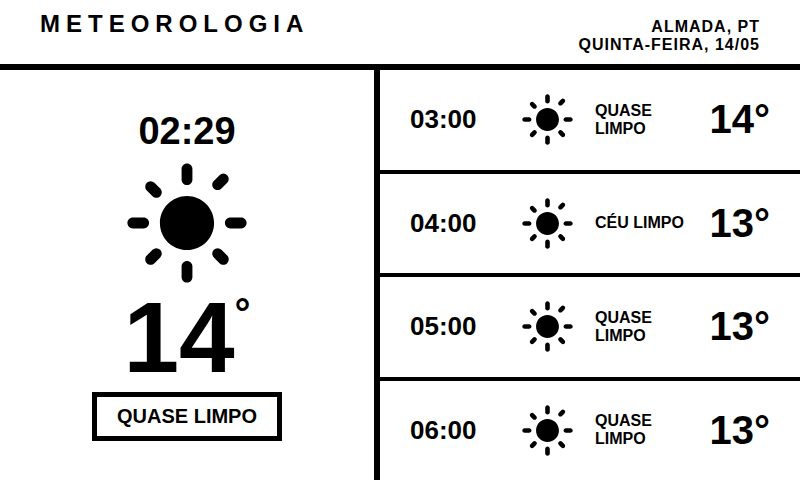
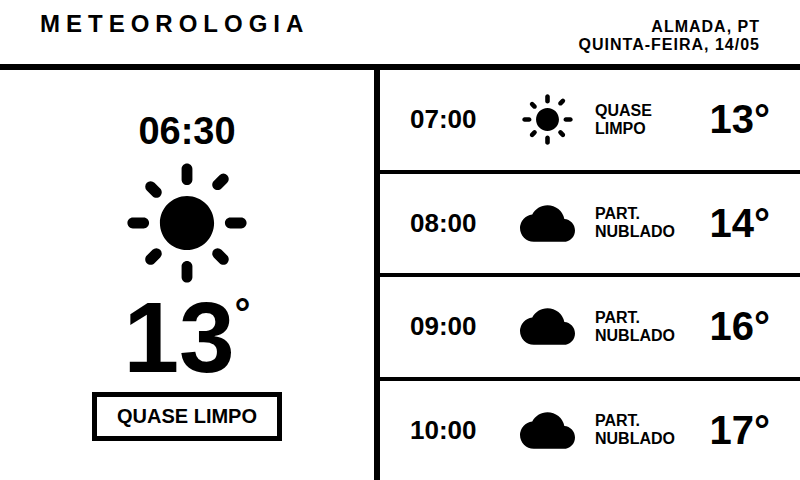
chore: atualiza imagem TRMNL

diff --git a/index.html b/index.html
@@ -53,9 +53,9 @@
 </div>
 <div class="main" id="main-content">
   <div class="current">
-    <div class="current-time">02:29</div>
+    <div class="current-time">06:30</div>
     <div id="cur-icon"><div style="width:130px"><svg viewBox="0 0 24 24" fill="black"><path d="M12 7c-2.76 0-5 2.24-5 5s2.24 5 5 5 5-2.24 5-5-2.24-5-5-5zM2 13h2c.55 0 1-.45 1-1s-.45-1-1-1H2c-.55 0-1 .45-1 1s.45 1 1 1zm18 0h2c.55 0 1-.45 1-1s-.45-1-1-1h-2c-.55 0-1 .45-1 1s.45 1 1 1zM11 2v2c0 .55.45 1 1 1s1-.45 1-1V2c0-.55-.45-1-1-1s-1 .45-1 1zm0 18v2c0 .55.45 1 1 1s1-.45 1-1v-2c0-.55-.45-1-1-1s-1 .45-1 1zM5.99 4.58a.996.996 0 00-1.41 0 .996.996 0 000 1.41l1.06 1.06c.39.39 1.03.39 1.41 0s.39-1.03 0-1.41L5.99 4.58zm12.37 12.37a.996.996 0 00-1.41 0 .996.996 0 000 1.41l1.06 1.06c.39.39 1.03.39 1.41 0s.39-1.03 0-1.41l-1.06-1.06zm1.06-12.37a.996.996 0 000-1.41.996.996 0 00-1.41 0l-1.06 1.06c-.39.39-.39 1.03 0 1.41s1.03.39 1.41 0l1.06-1.06zM7.05 18.36a.996.996 0 000-1.41.996.996 0 00-1.41 0l-1.06 1.06c-.39.39-.39 1.03 0 1.41s1.03.39 1.41 0l1.06-1.06z"/></svg></div></div>
-    <div class="current-temp">14<sup>°</sup></div>
+    <div class="current-temp">13<sup>°</sup></div>
     <div class="current-desc-box">
       <div class="current-desc">Quase limpo</div>
     </div>
@@ -63,28 +63,28 @@
   <div class="hours" id="hours-list">
     
       <div class="hour-card">
-        <div class="hour-time">03:00</div>
+        <div class="hour-time">07:00</div>
         <div class="hour-icon" style="width:55px"><svg viewBox="0 0 24 24" fill="black"><path d="M12 7c-2.76 0-5 2.24-5 5s2.24 5 5 5 5-2.24 5-5-2.24-5-5-5zM2 13h2c.55 0 1-.45 1-1s-.45-1-1-1H2c-.55 0-1 .45-1 1s.45 1 1 1zm18 0h2c.55 0 1-.45 1-1s-.45-1-1-1h-2c-.55 0-1 .45-1 1s.45 1 1 1zM11 2v2c0 .55.45 1 1 1s1-.45 1-1V2c0-.55-.45-1-1-1s-1 .45-1 1zm0 18v2c0 .55.45 1 1 1s1-.45 1-1v-2c0-.55-.45-1-1-1s-1 .45-1 1zM5.99 4.58a.996.996 0 00-1.41 0 .996.996 0 000 1.41l1.06 1.06c.39.39 1.03.39 1.41 0s.39-1.03 0-1.41L5.99 4.58zm12.37 12.37a.996.996 0 00-1.41 0 .996.996 0 000 1.41l1.06 1.06c.39.39 1.03.39 1.41 0s.39-1.03 0-1.41l-1.06-1.06zm1.06-12.37a.996.996 0 000-1.41.996.996 0 00-1.41 0l-1.06 1.06c-.39.39-.39 1.03 0 1.41s1.03.39 1.41 0l1.06-1.06zM7.05 18.36a.996.996 0 000-1.41.996.996 0 00-1.41 0l-1.06 1.06c-.39.39-.39 1.03 0 1.41s1.03.39 1.41 0l1.06-1.06z"/></svg></div>
         <div class="hour-desc">Quase limpo</div>
+        <div class="hour-temp">13°</div>
+      </div>
+      <div class="hour-card">
+        <div class="hour-time">08:00</div>
+        <div class="hour-icon" style="width:55px"><svg viewBox="0 0 24 24" fill="black"><path d="M19.35 10.04A7.49 7.49 0 0012 4C9.11 4 6.6 5.64 5.35 8.04A5.994 5.994 0 000 14c0 3.31 2.69 6 6 6h13c2.76 0 5-2.24 5-5 0-2.64-2.05-4.78-4.65-4.96z"/></svg></div>
+        <div class="hour-desc">Part. Nublado</div>
         <div class="hour-temp">14°</div>
       </div>
       <div class="hour-card">
-        <div class="hour-time">04:00</div>
-        <div class="hour-icon" style="width:55px"><svg viewBox="0 0 24 24" fill="black"><path d="M12 7c-2.76 0-5 2.24-5 5s2.24 5 5 5 5-2.24 5-5-2.24-5-5-5zM2 13h2c.55 0 1-.45 1-1s-.45-1-1-1H2c-.55 0-1 .45-1 1s.45 1 1 1zm18 0h2c.55 0 1-.45 1-1s-.45-1-1-1h-2c-.55 0-1 .45-1 1s.45 1 1 1zM11 2v2c0 .55.45 1 1 1s1-.45 1-1V2c0-.55-.45-1-1-1s-1 .45-1 1zm0 18v2c0 .55.45 1 1 1s1-.45 1-1v-2c0-.55-.45-1-1-1s-1 .45-1 1zM5.99 4.58a.996.996 0 00-1.41 0 .996.996 0 000 1.41l1.06 1.06c.39.39 1.03.39 1.41 0s.39-1.03 0-1.41L5.99 4.58zm12.37 12.37a.996.996 0 00-1.41 0 .996.996 0 000 1.41l1.06 1.06c.39.39 1.03.39 1.41 0s.39-1.03 0-1.41l-1.06-1.06zm1.06-12.37a.996.996 0 000-1.41.996.996 0 00-1.41 0l-1.06 1.06c-.39.39-.39 1.03 0 1.41s1.03.39 1.41 0l1.06-1.06zM7.05 18.36a.996.996 0 000-1.41.996.996 0 00-1.41 0l-1.06 1.06c-.39.39-.39 1.03 0 1.41s1.03.39 1.41 0l1.06-1.06z"/></svg></div>
-        <div class="hour-desc">Céu limpo</div>
-        <div class="hour-temp">13°</div>
+        <div class="hour-time">09:00</div>
+        <div class="hour-icon" style="width:55px"><svg viewBox="0 0 24 24" fill="black"><path d="M19.35 10.04A7.49 7.49 0 0012 4C9.11 4 6.6 5.64 5.35 8.04A5.994 5.994 0 000 14c0 3.31 2.69 6 6 6h13c2.76 0 5-2.24 5-5 0-2.64-2.05-4.78-4.65-4.96z"/></svg></div>
+        <div class="hour-desc">Part. Nublado</div>
+        <div class="hour-temp">16°</div>
       </div>
       <div class="hour-card">
-        <div class="hour-time">05:00</div>
-        <div class="hour-icon" style="width:55px"><svg viewBox="0 0 24 24" fill="black"><path d="M12 7c-2.76 0-5 2.24-5 5s2.24 5 5 5 5-2.24 5-5-2.24-5-5-5zM2 13h2c.55 0 1-.45 1-1s-.45-1-1-1H2c-.55 0-1 .45-1 1s.45 1 1 1zm18 0h2c.55 0 1-.45 1-1s-.45-1-1-1h-2c-.55 0-1 .45-1 1s.45 1 1 1zM11 2v2c0 .55.45 1 1 1s1-.45 1-1V2c0-.55-.45-1-1-1s-1 .45-1 1zm0 18v2c0 .55.45 1 1 1s1-.45 1-1v-2c0-.55-.45-1-1-1s-1 .45-1 1zM5.99 4.58a.996.996 0 00-1.41 0 .996.996 0 000 1.41l1.06 1.06c.39.39 1.03.39 1.41 0s.39-1.03 0-1.41L5.99 4.58zm12.37 12.37a.996.996 0 00-1.41 0 .996.996 0 000 1.41l1.06 1.06c.39.39 1.03.39 1.41 0s.39-1.03 0-1.41l-1.06-1.06zm1.06-12.37a.996.996 0 000-1.41.996.996 0 00-1.41 0l-1.06 1.06c-.39.39-.39 1.03 0 1.41s1.03.39 1.41 0l1.06-1.06zM7.05 18.36a.996.996 0 000-1.41.996.996 0 00-1.41 0l-1.06 1.06c-.39.39-.39 1.03 0 1.41s1.03.39 1.41 0l1.06-1.06z"/></svg></div>
-        <div class="hour-desc">Quase limpo</div>
-        <div class="hour-temp">13°</div>
-      </div>
-      <div class="hour-card">
-        <div class="hour-time">06:00</div>
-        <div class="hour-icon" style="width:55px"><svg viewBox="0 0 24 24" fill="black"><path d="M12 7c-2.76 0-5 2.24-5 5s2.24 5 5 5 5-2.24 5-5-2.24-5-5-5zM2 13h2c.55 0 1-.45 1-1s-.45-1-1-1H2c-.55 0-1 .45-1 1s.45 1 1 1zm18 0h2c.55 0 1-.45 1-1s-.45-1-1-1h-2c-.55 0-1 .45-1 1s.45 1 1 1zM11 2v2c0 .55.45 1 1 1s1-.45 1-1V2c0-.55-.45-1-1-1s-1 .45-1 1zm0 18v2c0 .55.45 1 1 1s1-.45 1-1v-2c0-.55-.45-1-1-1s-1 .45-1 1zM5.99 4.58a.996.996 0 00-1.41 0 .996.996 0 000 1.41l1.06 1.06c.39.39 1.03.39 1.41 0s.39-1.03 0-1.41L5.99 4.58zm12.37 12.37a.996.996 0 00-1.41 0 .996.996 0 000 1.41l1.06 1.06c.39.39 1.03.39 1.41 0s.39-1.03 0-1.41l-1.06-1.06zm1.06-12.37a.996.996 0 000-1.41.996.996 0 00-1.41 0l-1.06 1.06c-.39.39-.39 1.03 0 1.41s1.03.39 1.41 0l1.06-1.06zM7.05 18.36a.996.996 0 000-1.41.996.996 0 00-1.41 0l-1.06 1.06c-.39.39-.39 1.03 0 1.41s1.03.39 1.41 0l1.06-1.06z"/></svg></div>
-        <div class="hour-desc">Quase limpo</div>
-        <div class="hour-temp">13°</div>
+        <div class="hour-time">10:00</div>
+        <div class="hour-icon" style="width:55px"><svg viewBox="0 0 24 24" fill="black"><path d="M19.35 10.04A7.49 7.49 0 0012 4C9.11 4 6.6 5.64 5.35 8.04A5.994 5.994 0 000 14c0 3.31 2.69 6 6 6h13c2.76 0 5-2.24 5-5 0-2.64-2.05-4.78-4.65-4.96z"/></svg></div>
+        <div class="hour-desc">Part. Nublado</div>
+        <div class="hour-temp">17°</div>
       </div>
   </div>
 </div>
